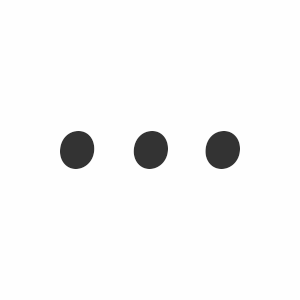
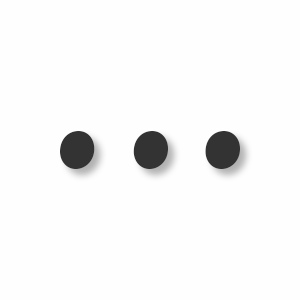
Added README.md
Some other changes:
Updated icon, added chrome webstore link

Changed region(s): [[0.72, 0.45, 0.84, 0.6], [0.48, 0.45, 0.6, 0.6], [0.21, 0.45, 0.36, 0.6]]

diff --git a/README.md b/README.md
@@ -1,0 +1,5 @@
+![Ellipsis logo](/img/icon.png)
+Ellipsis
+==============
+A Google chrome extension that replaces three consecutive periods with an ellipsis.
+It's available on the [webstore](https://chrome.google.com/webstore/detail/ellipsis/pgjlnpabcfhabjjhlmnicgfgbfkmcone)
